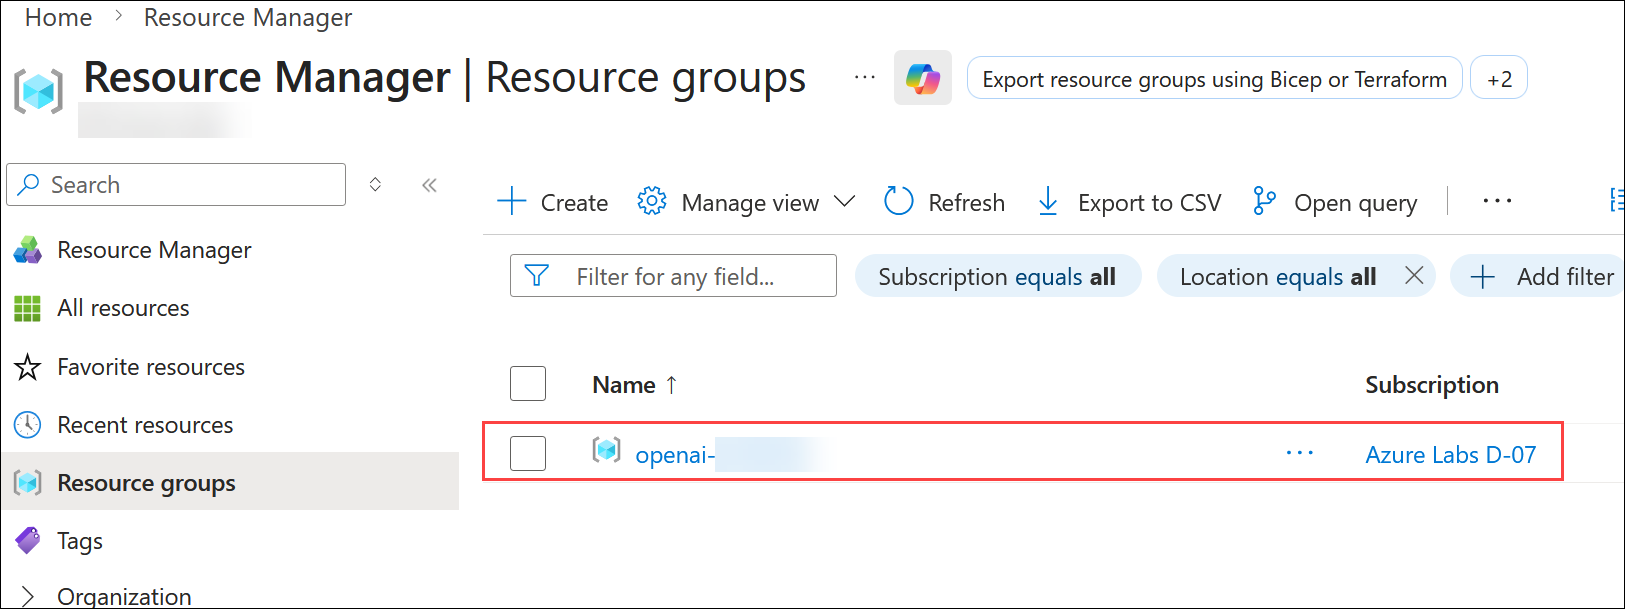
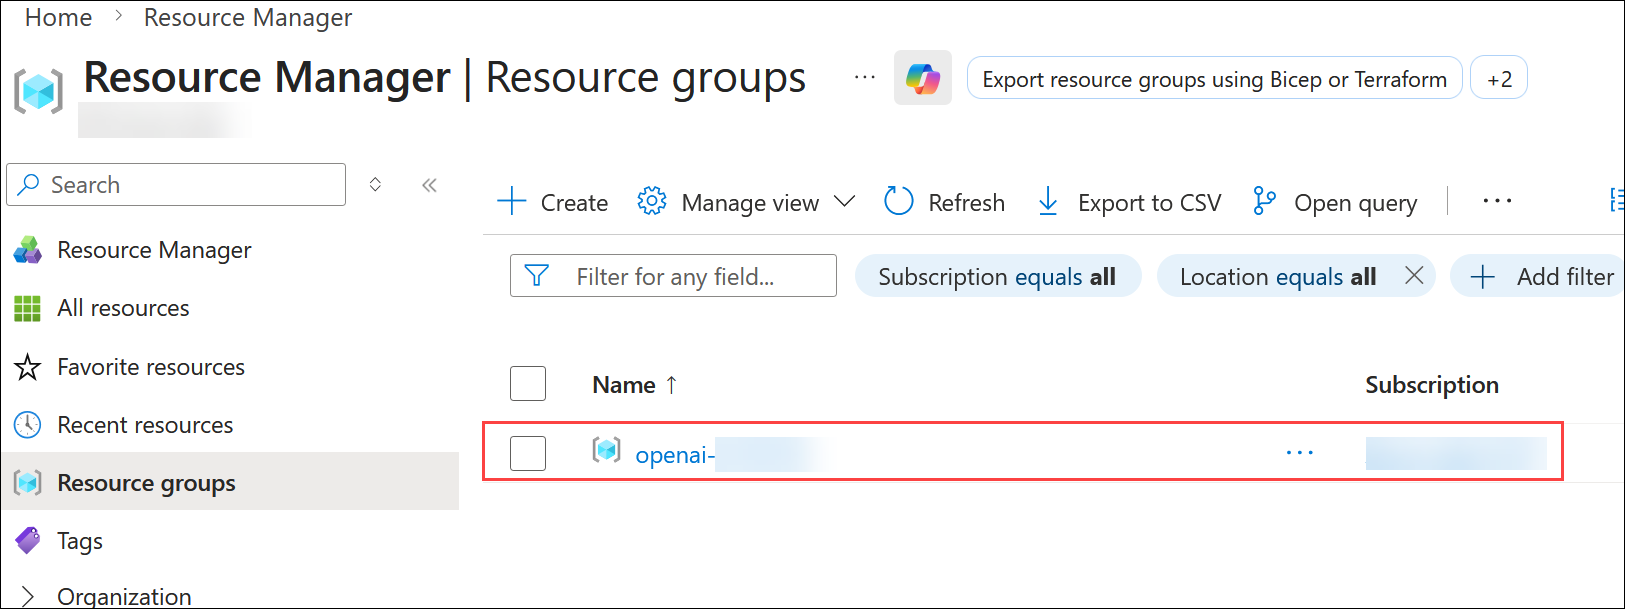
Review Suggestions

Changed region(s): [[0.8308, 0.7176, 0.9538, 0.78]]

diff --git a/Labs/use-your-own-data-custom.md b/Labs/use-your-own-data-custom.md
@@ -4,7 +4,7 @@
 
 ## Lab Overview
 
-Retrieval Augmented Generation (RAG) is a design pattern that enables AI developers in Azure to build intelligent applications by combining large language models with organization-specific data. Instead of relying only on the model’s pre-trained knowledge, RAG retrieves relevant information from custom data sources such as documents, databases, or knowledge bases and incorporates it into the prompt to generate more accurate, context-aware responses. This approach is widely used for developing chat-based and enterprise AI applications.
+While working at **Contoso**, you realize that employees often spend too much time searching through internal documents to find answers about company policies, product manuals, or troubleshooting guides. To simplify this process, you decide to build an AI-powered assistant using Retrieval Augmented Generation (RAG) in Azure. Instead of relying only on the model’s general knowledge, the solution retrieves relevant information from Contoso’s internal documents whenever a question is asked and includes it in the prompt sent to the language model. This enables the assistant to provide accurate, context-aware responses based on the organization’s internal knowledge, helping employees find the information they need more quickly.
 
 ## Lab Objectives
 
@@ -80,17 +80,17 @@ In this task, you will configure two models within your Azure Foundry project to
 
     ![](./media/T2S2.png)
 
-1. Search for **gpt-4.1(1)**, select it **(2)**. On the detail page select **Use this model (3)**.
+1. Search for **gpt-4.1(1)**, and select it **(2)**. On the details page click on **Use this model (3)**.
 
     ![](./media/T2S3.png)
 
     ![](./media/T2S3i.png)
 
-1. There will be a pop-up with purchase options appears, select the **Direct from Azure models** option.
+1. There will be a pop-up with purchase options, select the **Direct from Azure models** option it will automatically redirect to the **Deploy model wizard**.
 
     ![](./media/T2S4.png)
 
-1. Use the following settings in the **Deploy model wizard** and then click on **Deploy**:
+1. Use the following settings in the **Deploy model wizard** and then click on **Deploy (8)**:
 
     - **Deployment name**: **`mygpt` (1)**
     - **Deployment type**: **`Global Standard` (2)**
@@ -521,14 +521,21 @@ In this task, we will run and interact with your RAG (Retrieval-Augmented Genera
 ## Summary
 
 In this lab, you have accomplished the following:
-- Provisioned an Azure OpenAI resource.
-- Deployed an Azure OpenAI model within the Microsoft Foundry.
-- Used the chat playground to utilise the functionalities of prompts, parameters, and code generation.
+
+-  Provisioned a Microsoft Foundry Hub and Project in Azure.
+
+- Deployed a generative AI model within Microsoft Foundry.
+
+- Used the Chat Playground to explore prompt engineering techniques, including prompts, parameters, and code generation.
+
+- Added grounding data in the playground to enhance responses with custom information.
+
+- Created a Retrieval Augmented Generation (RAG) application by integrating custom data with the deployed model.
+
+- Ran and tested the RAG application to generate context-aware responses using the indexed data.
 
 ## Conclusion
 
-By completing this hands-on lab, you’ve gained practical experience with Azure OpenAI Service and Microsoft Foundry. You started by provisioning an Azure OpenAI resource and deploying a model that supports both conversational and instruction-based scenarios. You then explored the Chat playground, experimenting with prompts, parameters, and few-shot examples to shape model responses. Finally, you tested the model’s ability to generate code, highlighting its potential for developer productivity.
-
-These exercises introduced not just the mechanics of deploying and interacting with models, but also how to configure them for different use cases, whether that’s conversational AI, educational Q\&A, or programming assistance. With this foundation, you’re now better equipped to integrate Azure OpenAI into real-world applications that demand scalability, flexibility, and secure access through the Azure ecosystem.
+By completing this lab **Generative AI Application Using Your Own Data**, you stepped into the role of an AI developer at Contoso and explored how to build a generative AI solution using Microsoft Foundry in Azure. You provisioned the required Foundry resources, deployed a model, experimented with prompts in the playground, and added custom documents as grounding data. By implementing the Retrieval Augmented Generation (RAG) approach, you created and tested an application that retrieves relevant information and generates accurate, context-aware responses based on organizational data.
 
 ### You have successfully completed the Hands-on lab!

diff --git a/Labs/GettingStartedpage.md b/Labs/GettingStartedpage.md
@@ -4,7 +4,7 @@
 
 ## Overview
 
-In this hands-on lab, you will explore how to **build a Retrieval Augmented Generation (RAG)** solution using **Microsoft Foundry** in Azure. You will learn how to deploy the required Foundry hub and project resources, configure embedding and generative models, and integrate locally available custom data into your application. Through guided exercises, you will upload and index documents, enable intelligent data retrieval, and connect the retrieved content to a language model to generate accurate, context-aware responses. By the end of the lab, you will test and validate your application, gaining practical experience in developing enterprise-ready generative AI solutions grounded in your organization’s data.
+At **Contoso** organization, you have been asked to explore how generative AI can help employees quickly find answers from internal documents. To achieve this, you decide to build a solution using **Microsoft Foundry** in Azure and implement the **Retrieval Augmented Generation (RAG)** approach. During this hands-on exercise, you will deploy the required Foundry hub and project resources, configure embedding and generative models, and integrate custom documents that are stored locally. As you progress, you will upload and index these documents so the system can retrieve relevant information when a question is asked. This retrieved content will then be combined with a language model to generate accurate, context-aware responses. By the end of the exercise, you will test and validate the application, gaining practical experience in building an enterprise-ready AI solution that uses your organization’s data.
 
 
 ## Objective
@@ -40,9 +40,15 @@ The flow of the lab will be to use an existing Resource Group, then create and d
 
 - **Microsoft Foundry:** A unified workspace where you deploy, test, and interact with AI models. It provides tools like the Chat Playground for experimenting with conversational use cases, and configuration options for prompts, parameters, and system instructions. Foundry also integrates with observability and monitoring features, making it the primary interface for fine-tuning and experimenting with deployed models.
 
+- **Azure AI Search:** is a cloud-based search service from Microsoft that allows applications to index, search, and retrieve information from large datasets quickly and intelligently. It is commonly used in AI applications, enterprise search systems, and RAG (Retrieval-Augmented Generation) solutions.
+
+- **RAG application:** It stands for Retrieval-Augmented Generation application which is an AI application that retrieves information from external data sources and then uses a language model to generate an answer based on that data.
+
+- **Visual Studio Code (VS Code):** is a free, lightweight code editor developed by Microsoft that developers use to write, edit, and run code.
+
 ## Getting Started with the Lab
 
-Welcome to your Get Started with Azure OpenAI Service Workshop! We've prepared a seamless environment for you to explore and learn about Azure services. Let's begin by making the most of this experience.
+Welcome to your **Generative AI Application Using Your Own Data** Workshop! We've prepared a seamless environment for you to explore and learn about Azure services. Let's begin by making the most of this experience.
  
 ## Accessing Your Lab Environment
  
